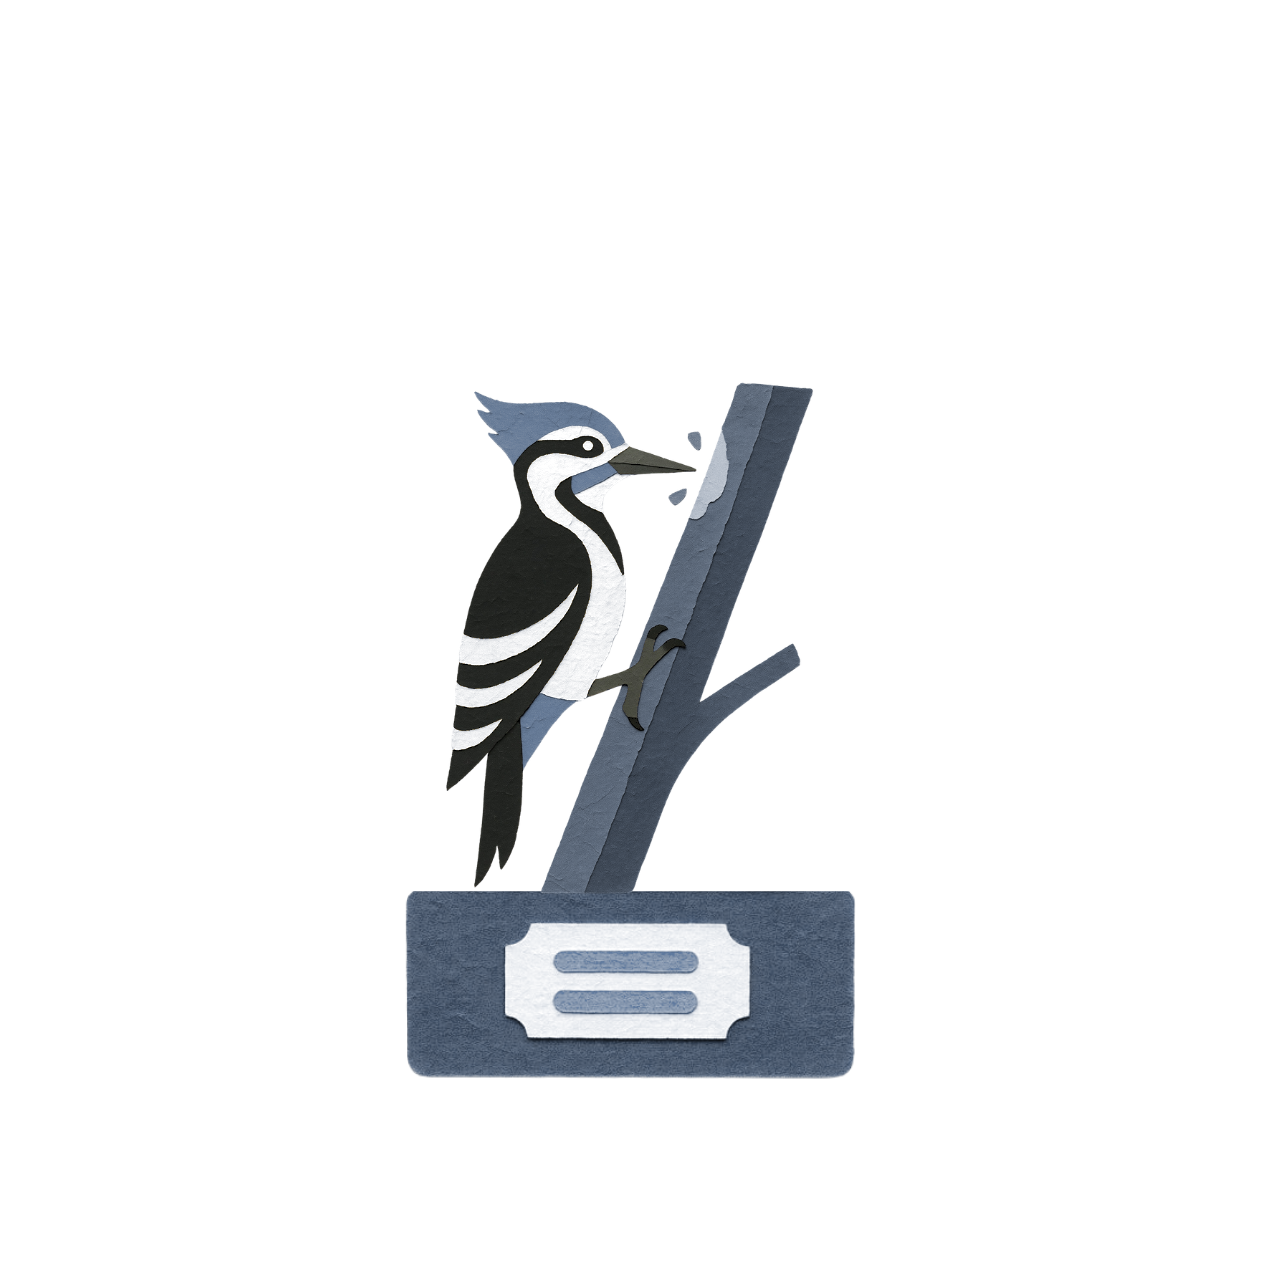
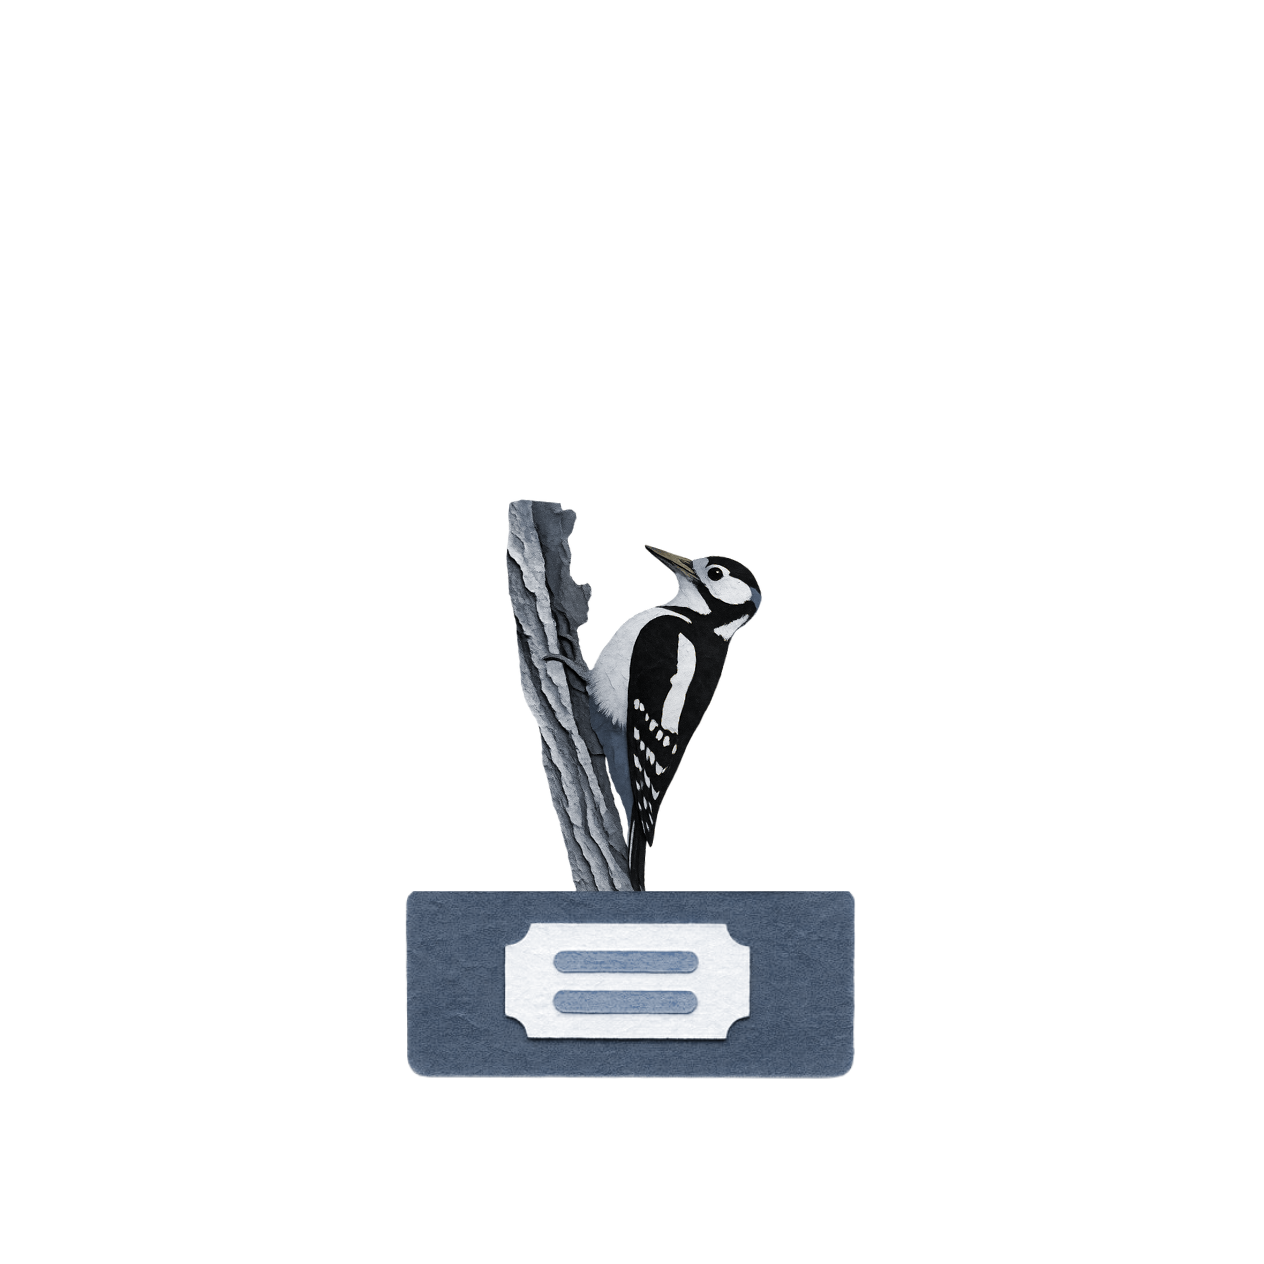
Trophee Pics : 6 nouveaux visuels papier-craft Canva (v2). Cache v183.

Changed region(s): [[0.3394, 0.2777, 0.6479, 0.7097]]

diff --git a/service-worker.js b/service-worker.js
@@ -3,7 +3,7 @@
 //   puis rafraichit en background. Prochain reload = nouvelle version.
 // - Requetes cross-origin (Firestore, iNaturalist, xeno-canto, Wikipedia, etc.) : reseau seul.
 // - Bump CACHE_VERSION quand on veut invalider volontairement.
-const CACHE_VERSION = 'v182-2026-09-15-bruants-visuel-v2';
+const CACHE_VERSION = 'v183-2026-09-15-pics-visuel-v2';
 const CACHE_NAME = 'lmb-' + CACHE_VERSION;
 
 self.addEventListener('install', (e) => {
